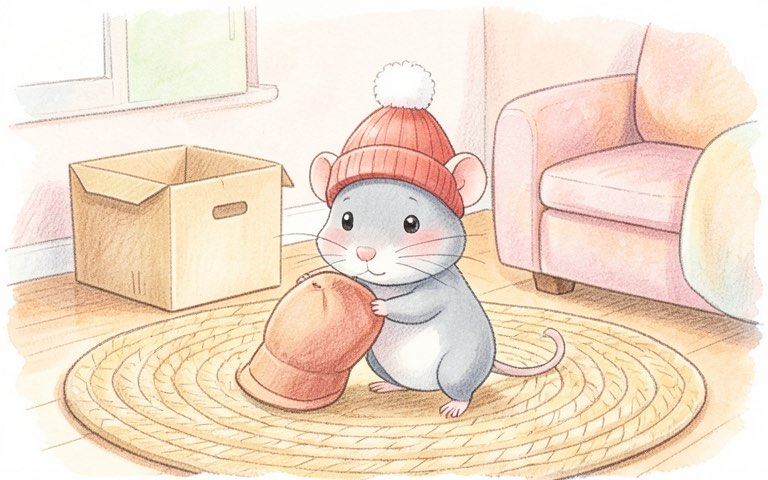
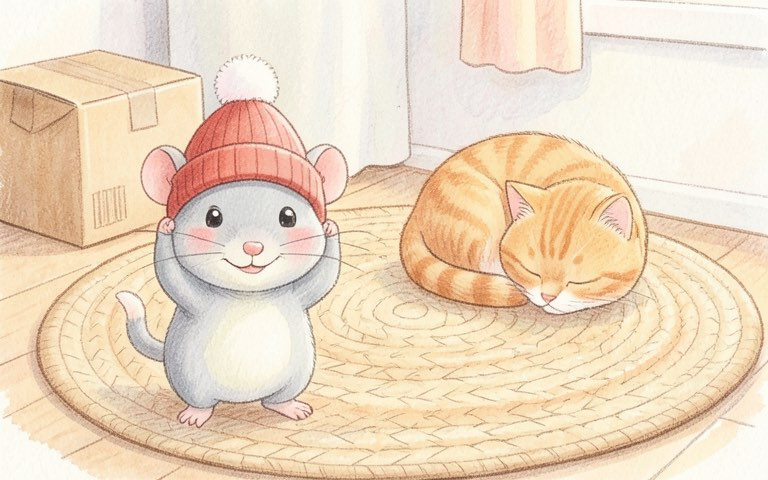
삽화: 애매한 쪽은 장면을 따로 정하기(SCENES), 2권 5·14쪽 다시, 한 장마다 저장

diff --git a/server/scripts/pregen-img.js b/server/scripts/pregen-img.js
@@ -85,6 +85,12 @@ const BOOKS = {
   32: ['a cozy future home', [[NAR, 'an 8-year-old boy with short black hair in an orange hoodie'], [`Bolt|robot|\\b(he|his)\\b|${WE}`, 'Bolt, a friendly round white and blue robot with big round eyes'], ['dog', 'a small dog']]],
 };
 
+// 문장만으로는 장면이 애매한 쪽: '책-쪽' → [나올 인물(모습에서 찾을 말), 그릴 장면]
+const SCENES = {
+  '2-5': ['cat|rat', 'the fat orange cat stares longingly at the red knit beanie on the rat\'s head and reaches one paw toward it'],
+  '2-14': ['cat|rat', 'in front, the small gray rat with gray fur smiles proudly and holds its red knit beanie on its head with both paws; far behind it, the cat sleeps curled up on the mat'],
+};
+
 const ctx = {}; vm.createContext(ctx);
 for (const f of ['content.js', 'data.js', 'generator.js', 'lesson.js']) vm.runInContext(fs.readFileSync(path.join(config.publicDir, 'js', f), 'utf8').replace(/^const (\w+)/gm, 'var $1'), ctx);
 const { LETTERS, PHONICS, SENTENCES, STORIES, ALL_LEVELS, Gen, isLetterLine } = ctx;
@@ -114,15 +120,16 @@ if (only !== 'w') for (const s of [...STORIES].sort((a, b) => a.id - b.id)) {
   s.pages.forEach(([text], i) => {
     const letter = isLetterLine(text);
     const thing = letter && text.replace(/^[A-Z] is for | ends with [A-Z]\.?$/g, '').replace(/\.$/, '');
-    let who = letter ? [] : cast.filter(([k]) => k === '*' || new RegExp(k, 'i').test(text));
+    const scene = SCENES[`${s.id}-${i}`];
+    let who = letter ? [] : scene ? cast.filter(c => new RegExp(scene[0]).test(c[1])) : cast.filter(([k]) => k === '*' || new RegExp(k, 'i').test(text));
     // 대명사만 있으면 앞 쪽 인물을 이어 쓰고, 그때만 앞 문장을 함께 준다 (다른 인물이 덤으로 그려지지 않게)
-    const carried = !letter && !who.length && /\b(he|she|it|they|his|her|its|them|him)\b/i.test(text);
+    const carried = !letter && !scene && !who.length && /\b(he|she|it|they|his|her|its|them|him)\b/i.test(text);
     if (carried) who = last;
     last = who; who = who.slice(0, 4); // 기준 그림은 4장까지
     const prev = carried && i && !isLetterLine(s.pages[i - 1][0]) ? ` Just before this, ${plain(s.pages[i - 1][0])}.` : '';
     const prompt = letter
       ? `${STYLE}. One single full-page illustration: a big cute ${thing}, in ${place}.`
-      : `${STYLE}. One single full-page illustration of this moment, with the action shown clearly: ${plain(text)}.${prev} `
+      : `${STYLE}. One single full-page illustration of this moment, with the action shown clearly: ${scene ? scene[1] : plain(text)}.${prev} `
         + (who.length ? `Characters in this picture: ${who.map(c => c[1]).join('; ')}. ${['', 'Only one character', 'Only two characters', 'Only three characters', 'Only four characters'][who.length]} in the whole picture, each appearing once. Use the reference images only for each character's look and colors; draw new poses, expressions and positions that act out the sentence.` : 'Only show what the sentence mentions.')
         + ` Background: ${place}, drawn in the same style as the characters, everything illustrated, not a photo, not realistic.${note && who.some(c => new RegExp(note[0]).test(c[1])) ? ` ${note[1]}` : ''}`;
     const refFiles = who.map(([, d]) => { const f = path.join(refDir, `${hash(styleName + d).slice(0, 12)}.png`); refs[f] = d; return f; });
@@ -196,7 +203,8 @@ async function worker() {
       for (const f of j.refFiles || []) await refMade(f);
       save(await draw(j.prompt, SIZE[j.kind], seedOf(j), j.refFiles), path.join(outDir, j.file));
       man[j.kind][j.key] = j.file; man.h[j.kind + j.key] = hash(j.prompt).slice(0, 10);
-      if (++done % 10 === 0) { writeMan(); console.log(`  ${done} / ${todo.length}`); }
+      writeMan(); // 한 장마다 저장: 중간에 Mac을 꺼도 그린 그림은 남는다
+      if (++done % 10 === 0) console.log(`  ${done} / ${todo.length}`);
     } catch (err) {
       if (err instanceof Quota) { stopped = err.message; break; }
       fail++; console.error(`실패: ${j.key} "${j.label}" — ${err.message}`);
